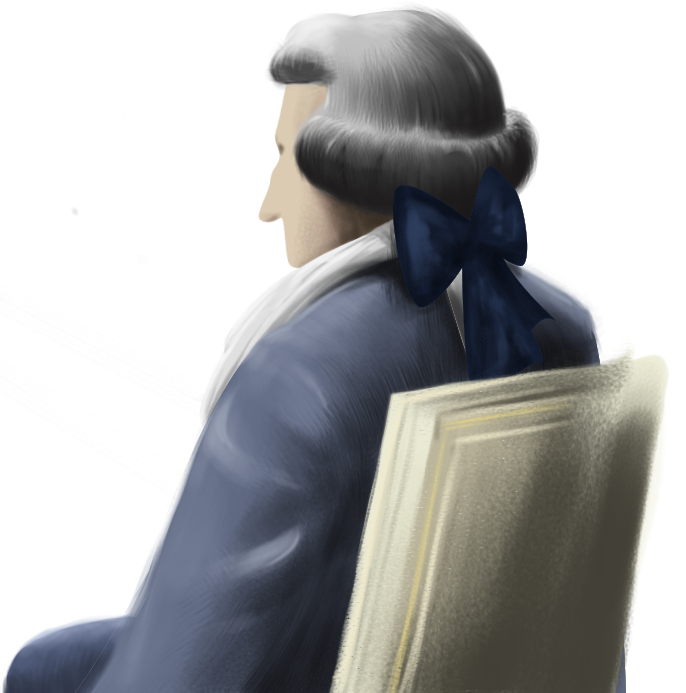
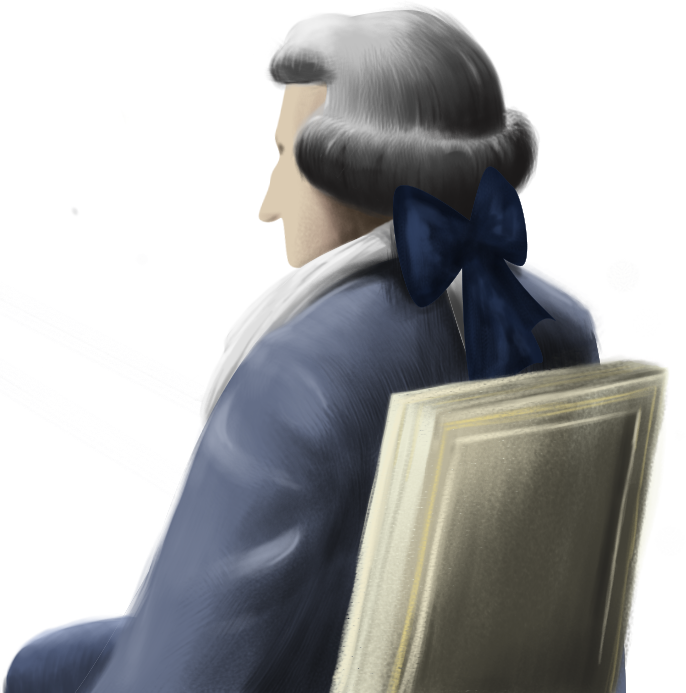
fix assets

Changed region(s): [[0.7041, 0.5152, 0.9796, 0.8485], [0.6122, 0.697, 0.7653, 0.9697], [0.8571, 0.8788, 0.8878, 0.9091]]

diff --git a/src/classes/Components/Room2.ts b/src/classes/Components/Room2.ts
@@ -77,42 +77,35 @@ export default class Room2 extends Component {
                     ligth.position.z = 3.5
                     return ligth
                 }),
-                // chevalet
                 new SceneObject({
-                    size: new THREE.Vector2(2, 2.4),
-                    position: new THREE.Vector3(0, -0.5, -0.5),
-                    texture: textures.painting,
+                    size: new THREE.Vector2(1.02*3, 0.835*2.9),
+                    position: new THREE.Vector3(-0.175, -0.72, -0.51),
+                    texture: textures.characters_painting,
                 }),
+                // new Component(
+                //     () => {
+                //         const object = new THREE.Object3D()
+                //         object.position.set(0, -0.4, -0.49)
+                //         return object
+                //     },
+                //     [],
+                //     {},
+                //     [
+                //         new Interactive({
+                //             name: 'LaPaix2',
+                //             sceneName: 'Demo',
+                //             sketch: textures.peace_sketch,
+                //             painting: textures.peace_painting,
+                //             ratio: new THREE.Vector2(1.7, 1.2),
+                //             glassTexture: textures.magnifying_glass,
+                //         }),
+                //     ],
+                // ),
                 new SceneObject({
-                    size: new THREE.Vector2(2, 1),
-                    position: new THREE.Vector3(0, -1.4, -0.7),
-                    rotation: new THREE.Euler(0.4, 0, 0),
-                    texture: textures.painting_leg,
+                    size: new THREE.Vector2(1.7, 1.2),
+                    position: new THREE.Vector3(0, -0.4, -0.49),
+                    texture: textures.peace_painting,
                 }),
-                new SceneObject({
-                    size: new THREE.Vector2(2, 2.4),
-                    position: new THREE.Vector3(0, -0.5, -0.48),
-                    texture: textures.painting_front,
-                }),
-                new Component(
-                    () => {
-                        const object = new THREE.Object3D()
-                        object.position.set(0, -0.4, -0.49)
-                        return object
-                    },
-                    [],
-                    {},
-                    [
-                        new Interactive({
-                            name: 'LaPaix2',
-                            sceneName: 'Demo',
-                            sketch: textures.peace_sketch,
-                            painting: textures.peace_painting,
-                            ratio: new THREE.Vector2(1.7, 1.2),
-                            glassTexture: textures.magnifying_glass,
-                        }),
-                    ],
-                ),
                 new SceneObject({
                     size: new THREE.Vector2(0.476*1.3, 0.708*1.3),
                     position: new THREE.Vector3(-1.2, -1.05, 1.2),
@@ -123,11 +116,25 @@ export default class Room2 extends Component {
                     position: new THREE.Vector3(-1.25, -1.05, 1.4),
                     texture: textures.character_2,
                 }),
-                new SceneObject({
-                    size: new THREE.Vector2(0.530*1.3, 0.675*1.3),
-                    position: new THREE.Vector3(-0.25, -1, 1.55),
-                    texture: textures.character_3,
-                }),
+                new Component(
+                    () => {
+                        const object = new THREE.Object3D()
+                        object.position.set(-0.25, -1, 1.55)
+                        return object
+                    },
+                    [],
+                    {},
+                    [
+                        new Interactive({
+                            name: 'Character3',
+                            sceneName: 'Demo',
+                            sketch: textures.character_3_sketch,
+                            painting: textures.character_3,
+                            ratio: new THREE.Vector2(0.530*1.3, 0.675*1.3),
+                            glassTexture: textures.magnifying_glass,
+                        }),
+                    ],
+                ),
                 new SceneObject({
                     size: new THREE.Vector2(0.452*1.4, 0.685*1.4),
                     position: new THREE.Vector3(0.75, -1.05, 1.2),
@@ -142,6 +149,11 @@ export default class Room2 extends Component {
                     size: new THREE.Vector2(0.867*1.2, 1.231*1.2),
                     position: new THREE.Vector3(1.75, -0.7, 1.6),
                     texture: textures.character_6,
+                }),
+                new SceneObject({
+                    size: new THREE.Vector2(0.547*1.2, 0.765*1.2),
+                    position: new THREE.Vector3(1.35, -1, 0.9),
+                    texture: textures.character_7,
                 }),
             ],
         )

diff --git a/src/setup.ts b/src/setup.ts
@@ -44,7 +44,7 @@ export default function Load() {
             front_wall: 'room/mur_du_fond_titre.jpg',
             floor: 'room/sol_v05.jpg',
             floor_shadow: 'room/ombre.png',
-            ceil: 'room/plafond_v02.jpg',
+            ceil: 'room/plafond_v03.jpg',
             left_wall_window: 'room/porte_fenete_v01.png',
             left_wall_painting: 'room/mur_de_gauche_avec_rubens_v01.jpg',
             left_wall_corner: 'room/mur_de_gauche_recoin_v01.jpg',
@@ -80,13 +80,17 @@ export default function Load() {
             front_wall_2: 'room2/mur_face_5.jpg',
             left_wall_2: 'room2/mur_gauche.jpg',
             right_wall_2: 'room2/mur_droite.jpg',
-            floor_2: 'room2/sol.jpg',
+            floor_2: 'room2/sol_4.jpg',
             character_1: 'room2/scene_02_personnage_extreme_gauche_v01.png',
             character_2: 'room2/scene_02_personnage_gauche_v01.png',
-            character_3: 'room2/scene_02_personnage_milieu_v01.png',
+            character_3: 'room2/scene_02_personnage_milieu_v02.png',
+            character_3_sketch: 'room2/scene_02_personnage_milieu_esquisse_v01.png',
             character_4: 'room2/scene_02_homme_droite_chaise2_v01.png',
             character_5: 'room2/scene_02_homme_droite_chaise_v01.png',
             character_6: 'room2/scene_02_homme_extreme_droite_v01.png',
+            character_7: 'room2/scene_02_assis_fond_v01.png',
+            characters_painting: 'room2/scene_02_cadre_plus_personnages_v01.png',
+
         },
         './assets/',
     ).then(Setup)
